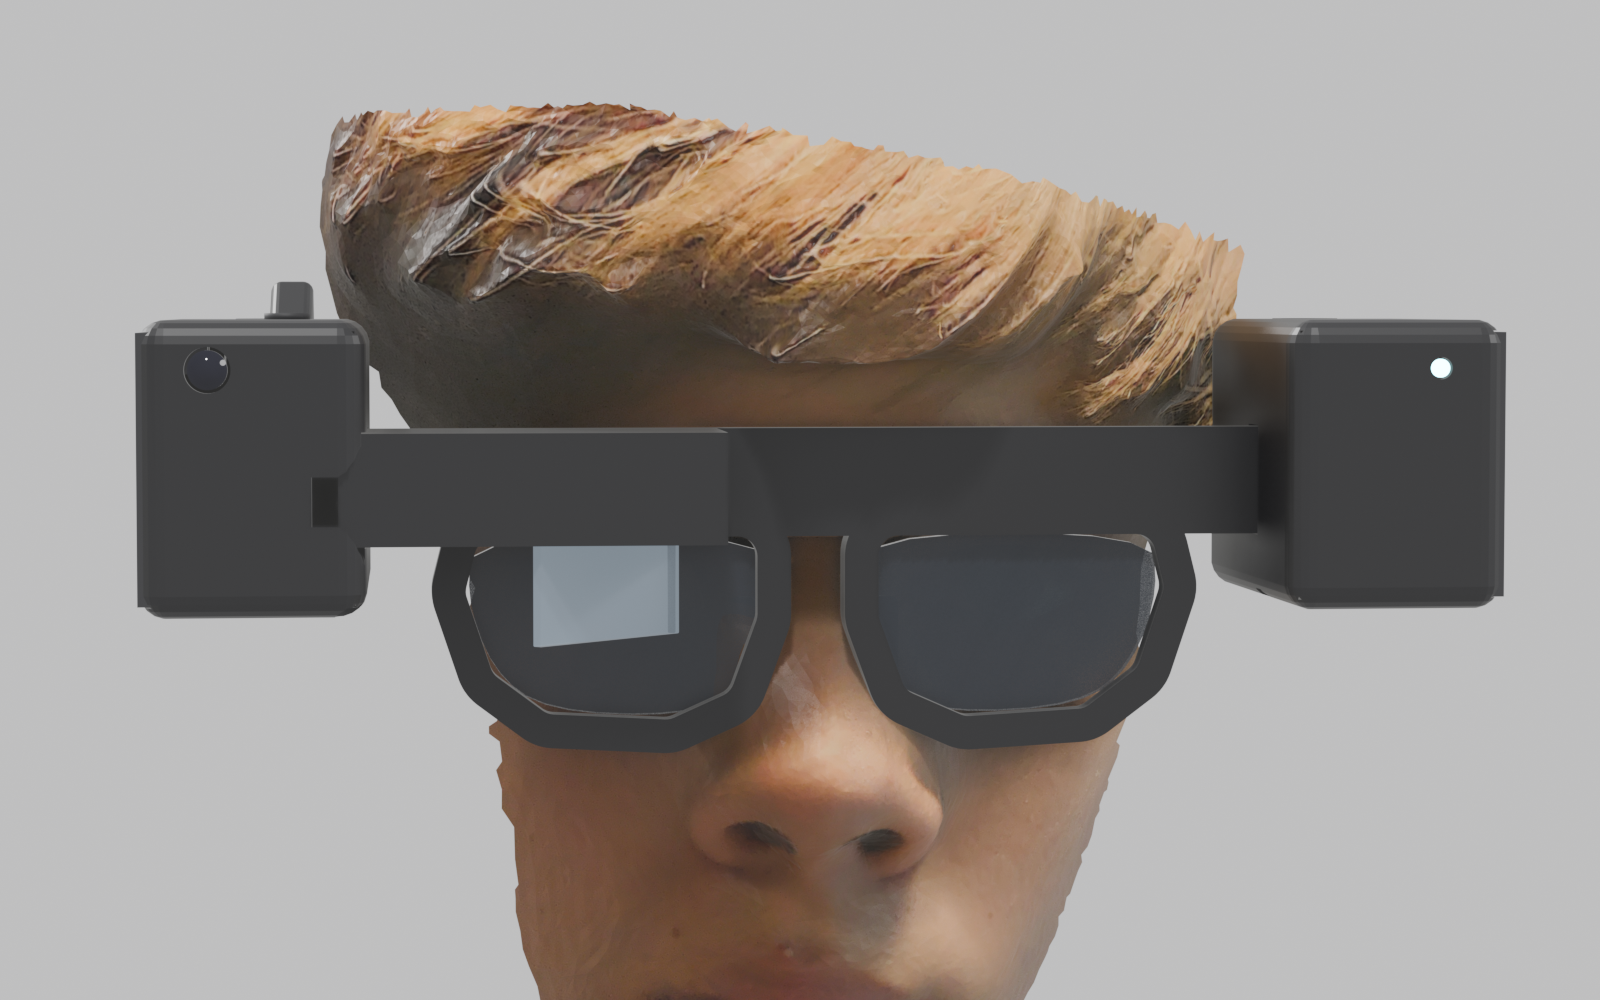
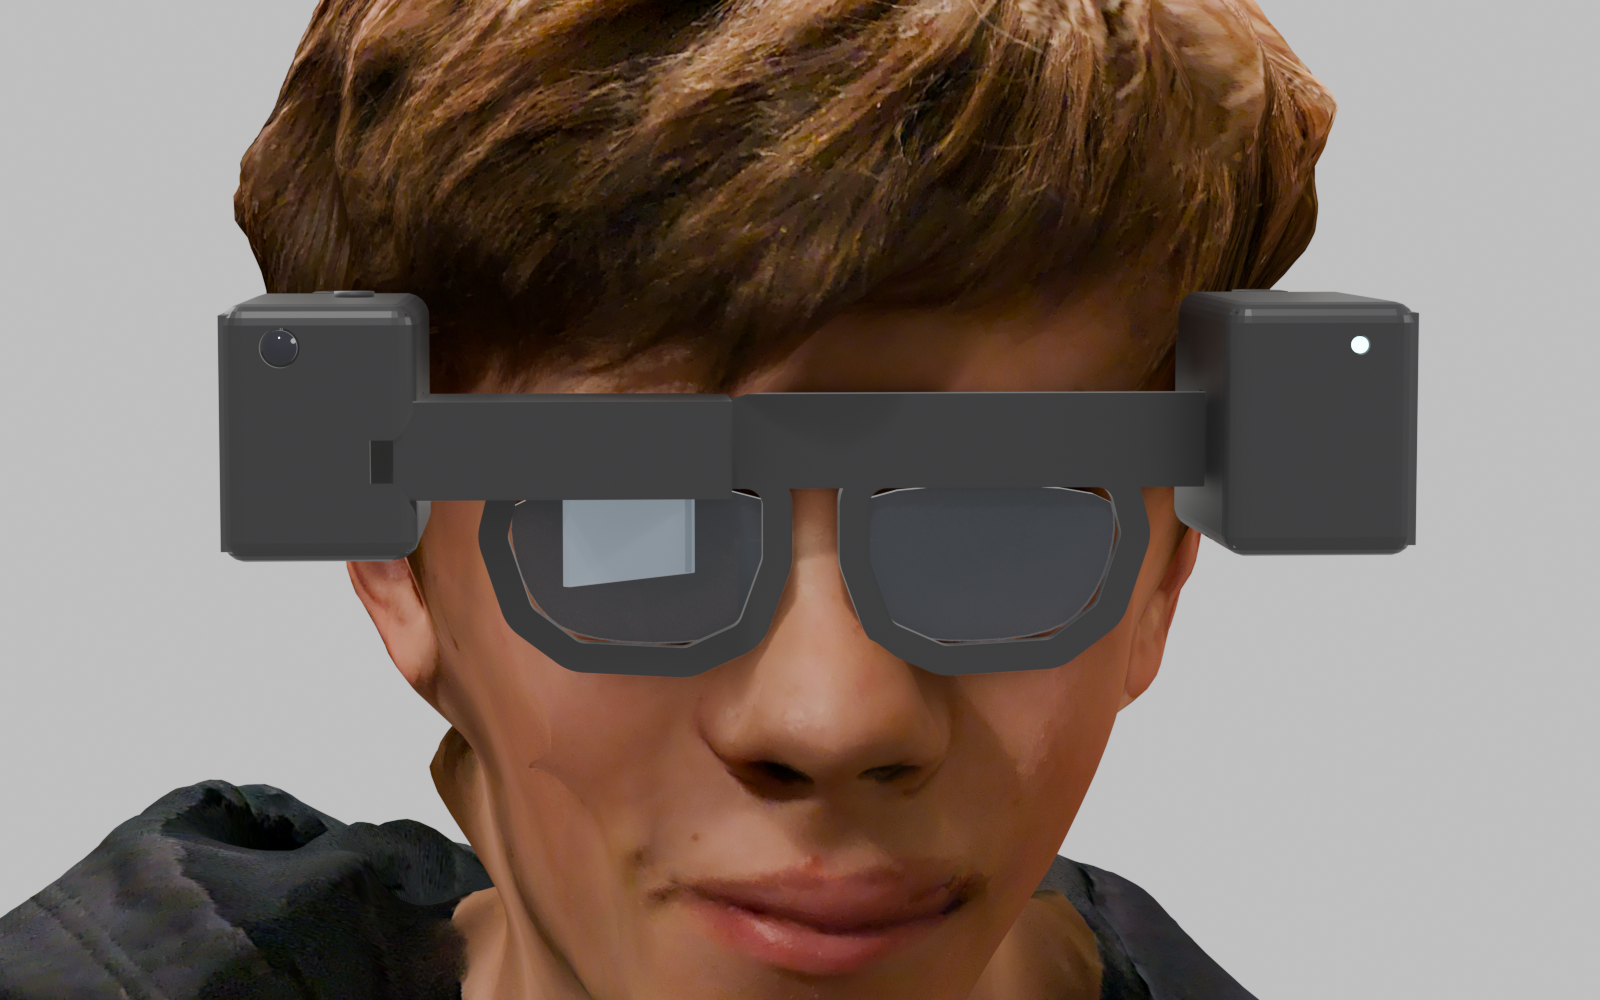
temples: length from ear scan (55 mm), 13° splay, hook over the ear; renders on the full-head scan

diff --git a/cad/glass_build.py b/cad/glass_build.py
@@ -208,7 +208,7 @@ VD = 18.0   # must match VD in glass.scad
 
 def build_scan_head():
     """Append Jurek's textured scan (reference/head-mm.blend, cornea plane at y=0) and place it at y = -VD."""
-    path = os.path.join(HERE, '..', 'reference', 'head-mm.blend')
+    path = os.path.join(HERE, '..', 'reference', 'head2-mm.blend')   # full head with ears (textured)
     with bpy.data.libraries.load(path, link=False) as (src, dst):
         dst.objects = [n for n in src.objects]
     root = bpy.data.objects.new('HEAD', None); bpy.context.collection.objects.link(root)
@@ -241,9 +241,9 @@ def stills(scan=False):
     head = build_scan_head() if scan else build_head()
     # on-head shots
     tag = 'scan' if scan else 'head'
-    camera((330, 420, 80), (10, -20, 10), 85, 'cam_head34'); render(os.path.join(OUT, f'glass-{tag}-front34.png'))
-    camera((520, -60, 40), (0, -60, 10), 85, 'cam_side'); render(os.path.join(OUT, f'glass-{tag}-side.png'))
-    camera((60, 560, 40), (0, -20, 10), 85, 'cam_front'); render(os.path.join(OUT, f'glass-{tag}-front.png'))
+    camera((380, 480, 120), (10, -40, 0), 85, 'cam_head34'); render(os.path.join(OUT, f'glass-{tag}-front34.png'))
+    camera((620, -80, 60), (0, -70, 0), 85, 'cam_side'); render(os.path.join(OUT, f'glass-{tag}-side.png'))
+    camera((40, 640, 60), (0, -40, 0), 85, 'cam_front'); render(os.path.join(OUT, f'glass-{tag}-front.png'))
     if scan: return
     # product shots without the head
     head.hide_render = True
